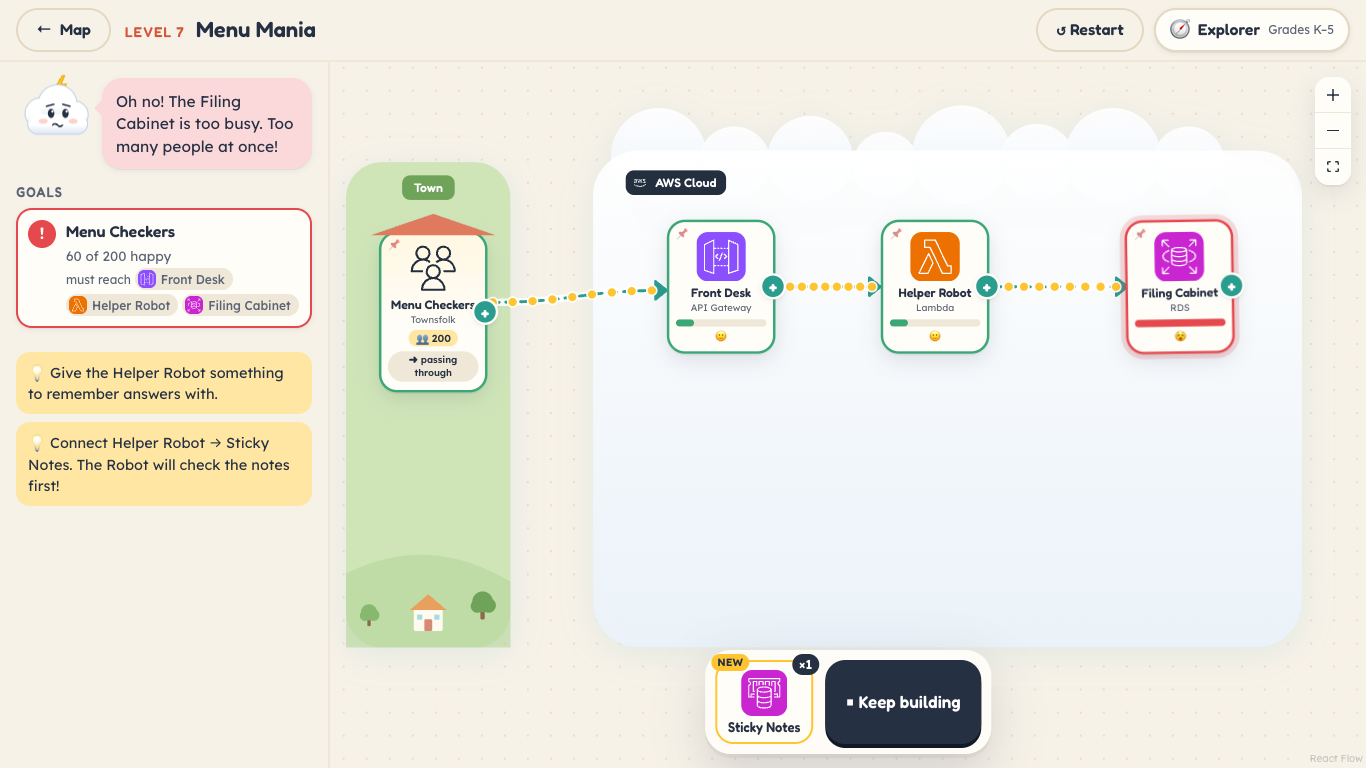
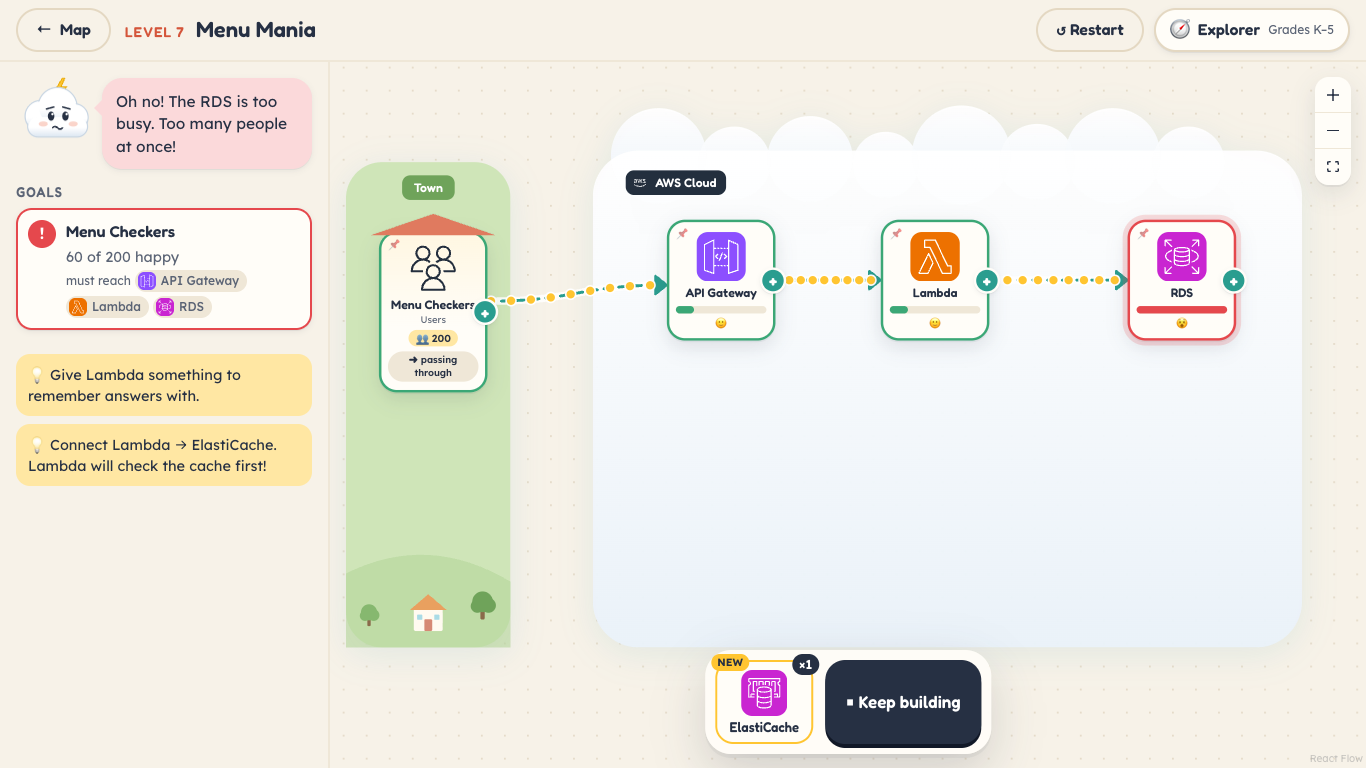
Refresh README screenshots for Chapter 2 and the Advanced Track
Retake the home and Chapter 1 map screenshots, which predated the
Advanced Track card and the chapter list. Add Chapter 2, Advanced Track
map, Advanced ticket, and Playground starter screenshots. Retake the
Explorer, level 8, and style guide shots that still showed the old
service nicknames.

Reorganise the README around what's inside (Story Mode, Advanced Track,
Playground, grade bands), then how to run and extend it.

diff --git a/README.md b/README.md
@@ -1,101 +1,125 @@
 # Spark: Cloud Builders
 
-A visual, game-like web app that teaches K–12 students how AWS services fit together.
+A visual, game-like web app that teaches students how AWS services fit together. Drag real AWS services onto a
+map, connect them, and press **Run** to watch requests flow. Overloaded pieces turn red, queued work waits in
+line, and bots get blocked.
 
-![Spark home screen: Story Mode and Playground over a cartoon town connected to the AWS cloud](docs/screens/home.png)
+![Spark home screen: Story Mode, Advanced Track, and Playground over a cartoon town connected to the AWS cloud](docs/screens/home.png)
 
-- **Story Mode**: 9 levels where Baker Rosa's bakery, Crumb & Co., goes online. Each level gives you a few
-  pieces. You connect them and press **Run** to watch requests flow along the arrows. Overloaded pieces
-  turn red; queued work waits in line; gremlin bots get blocked.
-  **Chapter 2: Maple Hollow Helps** opens after that: 6 levels where the whole town needs help with the kinds of
-  problems STLP teams pick (a library events site, park cleanup sign-ups, late-bus alerts, an AI school helper, notes
-  in every language, and a photo lost-and-found), using CloudFront, S3, API Gateway, Lambda, DynamoDB, SNS, Bedrock,
-  Translate, Polly, and Rekognition.
-- **Advanced Track (college & up)**: 7 on-call tickets two years later, when Crumb & Co. has grown into a national
-  delivery platform and you're its first cloud engineer. Tickets add constraints beyond "everyone is happy": a monthly
-  **budget**, **required arrows** (an IAM role, a KMS key, a Cognito authorizer, a CloudWatch alarm), and queues that
-  must **drain**. Topics: least privilege, cost-aware scaling, queue backlogs and containers, edge security, SNS/SQS
-  fan-out, an S3 + Athena data lake, and a grounded Bedrock AgentCore agent. Always uses real AWS names and numbers.
-- **Playground**: build anything with 48 pieces, from S3 and Lambda to IAM, containers, data tools, and Bedrock AgentCore. Only connections that make sense snap together. Try one
-  that doesn't, and Sparky explains why and suggests what to connect instead.
-- **Challenge tools** (in the Playground), for K–12 teams pitching an AWS solution to a community problem:
-  - **Starters**: pick your kind of problem (share information, collect sign-ups, send alerts, AI answers, understand
-    photos, more languages) and start from a plan that already works.
-  - **Your project's words and a goal**: rename any piece ("Sign-up checker"), with the AWS name kept underneath, and set a
-    goal like "80 volunteers can sign up". **Run** checks it.
-  - **Why we chose it**: a note on each piece, plus other services that could do the same job and when to pick each.
-  - **Our AWS plan**: a pitch-ready card with a picture of the map, what each service does, how it works, and the
-    sources to cite. Copy it as text or save it as a picture.
-  - **Judge practice**: questions a judge might ask, checked against your map: a 10× crowd, who can read your data,
-    how you'd know something broke, and why you picked each main service.
-  - **Share**: a link that carries the whole design, so teammates, coaches, and mentors can open it. No server or account.
-- **Grade bands**: Explorer (K–5), Builder (6–8), and Architect (9–12). Every band uses the real AWS service
-  names. Each band changes the explanations, numbers, and hints.
-- **Hover to learn**: point at any piece, tray item, or service chip to see what that service does, explained
-  for your grade band. Tap a piece on a touch screen to open its info card.
+## What's inside
 
-| Story Mode level map | A level running: one server is overloaded |
+### Story Mode (K–12)
+
+Two chapters, 15 levels. Each level gives you a few pieces and a goal. Connect them, press **Run**, and Sparky
+explains what happened.
+
+| Chapter 1: Crumb & Co. Goes Online | Chapter 2: Maple Hollow Helps |
 |---|---|
-| ![Chapter 1 level map with four levels complete](docs/screens/level-map.png) | ![Level 6: 150 visitors reach a server that can handle 50, so it turns red](docs/screens/level6-overload.png) |
-| **Sparky explains a connection that doesn't fit** | **Playground with IAM and KMS badges** |
-| ![Connecting customers straight to DynamoDB, and Sparky suggesting API Gateway instead](docs/screens/invalid-connection.png) | ![Playground: CloudFront, S3, API Gateway, Lambda, DynamoDB, and Bedrock, with IAM and KMS badge arrows](docs/screens/playground.png) |
+| ![Chapter 1 map: nine levels, four done](docs/screens/level-map.png) | ![Chapter 2 map: six levels, two done](docs/screens/chapter2-map.png) |
+| Baker Rosa's bakery goes online in 9 levels: storage, DNS, CDN, serverless, fan-out, scaling, caching, queues, and security. | The whole town needs help in 6 levels: a library events site, park cleanup sign-ups, late-bus alerts, an AI school helper, notes in every language, and a photo lost-and-found. |
+
+| A level running: one server is overloaded | Sparky explains a connection that doesn't fit |
+|---|---|
+| ![Level 6: 150 visitors reach a server that can handle 50, so it turns red](docs/screens/level6-overload.png) | ![Connecting customers straight to DynamoDB, and Sparky suggesting API Gateway instead](docs/screens/invalid-connection.png) |
+
+### Advanced Track (college & up)
+
+Seven on-call tickets, two years later. Crumb & Co. is now a national delivery platform and you're its first
+cloud engineer. Tickets add constraints beyond "everyone is happy": a monthly **budget**, **required arrows**
+(an IAM role, a KMS key, a Cognito authorizer, a CloudWatch alarm), and queues that must **drain**.
+
+| Advanced Track map | A ticket with a budget and security constraints |
+|---|---|
+| ![Advanced Track map: seven tickets across a night-time city](docs/screens/advanced-map.png) | ![Ticket 1: a $300 budget, a least-privilege IAM role, a customer managed KMS key, and a Cognito authorizer](docs/screens/advanced-ticket.png) |
+
+Topics: least privilege, cost-aware scaling, queue backlogs and containers, edge security, SNS/SQS fan-out, an
+S3 + Athena data lake, and a grounded Bedrock AgentCore agent. Every ticket uses real AWS names and numbers.
+
+### Playground
+
+Build anything with 48 pieces, from S3 and Lambda to IAM, containers, data tools, and Bedrock AgentCore. Only
+connections that make sense snap together. Try one that doesn't, and Sparky explains why and suggests what to
+connect instead.
+
+| Pick a starter plan | A finished design with a goal, IAM, and KMS |
+|---|---|
+| ![Starters: six kinds of problem, each with a plan that already works](docs/screens/starters.png) | ![Playground: CloudFront, S3, API Gateway, Lambda, DynamoDB, and Bedrock, with IAM and KMS badge arrows and a met goal](docs/screens/playground.png) |
+
+The Playground also has **challenge tools** for teams pitching an AWS solution to a community problem:
+
+- **Starters**: pick your kind of problem (share information, collect sign-ups, send alerts, AI answers,
+  understand photos, more languages) and start from a plan that already works.
+- **Your project's words and a goal**: rename any piece ("Sign-up checker") with the AWS name kept underneath,
+  and set a goal like "80 volunteers can sign up". **Run** checks it.
+- **Why we chose it**: a note on each piece, plus other services that could do the same job and when to pick each.
+- **Our AWS plan**: a pitch-ready card with a picture of the map, what each service does, and sources to cite.
+  Copy it as text or save it as a picture.
+- **Judge practice**: questions a judge might ask, checked against your map: a 10× crowd, who can read your
+  data, how you'd know something broke, and why you picked each main service.
+- **Share**: a link that carries the whole design. No server or account needed.
+
+### Grade bands
+
+Explorer (K–5), Builder (6–8), Architect (9–12), and Advanced (college & up). Every band uses the real AWS
+service names. The band changes the explanations, numbers, and hints. Point at any piece, tray item, or service
+chip to see what it does, explained for your band. On a touch screen, tap a piece to open its info card.
+
+![Explorer band: faces instead of numbers, and automatic hints](docs/screens/explorer-band.png)
 
 ## Run it
 
 ```bash
 npm install
 npm run dev        # http://localhost:5173
-npm test           # engine + data tests (every level is solvable, every preset is a valid connection)
-npm run build      # static site in dist/ — host on S3 + CloudFront, Amplify, GitHub Pages…
+npm test           # every level is solvable, every preset is a valid connection
+npm run build      # static site in dist/
 ```
 
-The app uses hash routing and a relative base, so `dist/` works from any static host or sub-path.
-Progress is saved in the browser (localStorage). Nothing is sent to a server.
+The build is a static site with hash routing and a relative base, so `dist/` works from S3 + CloudFront,
+Amplify, GitHub Pages, or any sub-path. Progress is saved in the browser. Nothing is sent to a server.
 
-## How it works
+## How it's built
 
 | Path | What lives there |
 |---|---|
-| `src/data/services.ts` | The 48 pieces: real name, per-band blurbs (shown on hover and in the info card), capacity, and how traffic leaves each one |
-| `src/data/rules.ts` | Directional allow-list of connections (`from → to`), with a verb plus simple and technical "why" text, and hand-written explanations for common mistakes |
-| `src/data/levels.ts` | Chapter 1 story, goals, pre-placed pieces, tray palette, hints, lesson, and the intended solution |
-| `src/data/advanced.ts` | Advanced Track tickets, with budgets, required arrows, and backlog limits |
-| `src/data/costs.ts` | Rough monthly cost of each piece, used by budget tickets |
-| `src/engine/objectives.ts` | Checks a ticket's budget, required arrows, and queue backlog |
-| `src/data/starters.ts`, `src/data/alternatives.ts` | Playground starter plans, and which services can do the same job (with "pick it when…") |
-| `src/engine/judge.ts`, `src/engine/share.ts` | Judge-practice questions checked against a map, and share-link encoding (validated on open) |
+| `src/data/services.ts` | The 48 pieces: name, per-band blurbs, capacity, and how traffic leaves each one |
+| `src/data/rules.ts` | Which connections are allowed (`from → to`), with a "why" for each, and explanations for common mistakes |
+| `src/data/levels.ts`, `src/data/chapter2.ts` | Story Mode chapters: story, goals, pre-placed pieces, tray, hints, lesson, and solution |
+| `src/data/advanced.ts`, `src/data/costs.ts` | Advanced Track tickets (budgets, required arrows, backlog limits) and rough monthly costs |
+| `src/data/starters.ts`, `src/data/alternatives.ts` | Playground starter plans, and which services can do the same job |
+| `src/engine/simulate.ts` | Traffic model: a forward pass computes load, a backward pass works out why each request did or didn't finish |
+| `src/engine/validate.ts`, `src/engine/objectives.ts` | Connection checks (rule, duplicate, self, loop) and ticket constraints (budget, required arrows, backlog) |
+| `src/engine/judge.ts`, `src/engine/share.ts` | Judge-practice questions and share-link encoding |
+| `src/components/canvas/` | React Flow canvas, pieces, flowing arrows, the tray, and the "why" bubble |
 | `src/components/playground/` | Starters, goal card, project notes, plan export, judge panel, share dialog |
-| `src/engine/simulate.ts` | Traffic model. A forward pass computes the load on every piece; a backward pass works out why each request did or didn't finish |
-| `src/engine/validate.ts` | Connection checks: rule, duplicate, self, and loop |
-| `src/components/canvas/` | React Flow canvas, pieces, flowing dashed edges with request dots, the tray (drag or tap), and the "why" bubble |
-| `src/screens/` | Home, Level map, Level play, Playground, Style guide (`#/styleguide`) |
+| `src/screens/` | Home, level map, level play, Playground, style guide (`#/styleguide`) |
 
-### Simulation rules (kid version)
+### Simulation rules
+
 - Townsfolk send *N* visitors. Every piece can handle a set number at once. Anything over that is dropped.
 - Front doors (Route 53, API Gateway, load balancer, WAF, SQS) **share** visitors between their arrows.
   Workers (Lambda, EC2, SNS, EventBridge…) **copy** each request to every arrow.
-- CloudFront answers ~80% from its copies. ElastiCache answers ~80% of database reads. Auto Scaling
+- CloudFront answers about 80% from its copies. ElastiCache answers about 80% of database reads. Auto Scaling
   gives EC2 4× capacity. WAF removes bots. Work coming out of SQS waits instead of being dropped.
-- **Badges**: IAM, KMS, Secrets Manager, Shield, Fargate, and Auto Scaling don't carry requests. Their arrows pin
-  a badge on the piece they point at (for example, IAM → Lambda gives Lambda a permission badge). Apart from Auto
-  Scaling's extra capacity, badges never make requests fail.
-- SQS hands messages to its readers in proportion to their capacity, because readers pull work when they have room.
+- **Badges**: IAM, KMS, Secrets Manager, Shield, Fargate, and Auto Scaling don't carry requests. Their arrows
+  pin a badge on the piece they point at. Apart from Auto Scaling's extra capacity, badges never make requests fail.
 - Pieces that need somewhere to send work (AgentCore, Firehose, Athena, Glue, AppSync) fail as a dead end without it.
 
 ### Add a level
-Append to `LEVELS` in `src/data/levels.ts`, including a `solution`. `npm test` fails if the starting
-setup already passes, if the solution doesn't, or if any arrow isn't an allowed connection.
 
-Advanced tickets go in `ADVANCED_LEVELS` in `src/data/advanced.ts` and can also set `budget`, `requires`, and
-`maxBacklog`. The same test checks that the start fails and the solution passes every constraint.
+Append to the chapter's level list (`src/data/levels.ts`, `src/data/chapter2.ts`, or `src/data/advanced.ts`),
+including a `solution`. Advanced tickets can also set `budget`, `requires`, and `maxBacklog`. `npm test` fails if
+the starting setup already passes, if the solution doesn't, or if any arrow isn't an allowed connection.
 
 ### Add a service
+
 1. Add its icon mapping to `scripts/import-icons.mjs`, then run
    `npm run icons -- "/path/to/Icon-package_XXXX"` to copy it into `public/icons/`.
 2. Add the service to `src/data/services.ts` and its connections to `src/data/rules.ts`.
 
 ## Notes
-- AWS Architecture Icons © Amazon Web Services, used here to teach architecture.
-  This project is not affiliated with or endorsed by AWS.
-- Fonts (Fredoka, Lexend) are bundled via Fontsource, so the app works on school networks that block Google Fonts.
+
+- AWS Architecture Icons © Amazon Web Services, used here to teach architecture. This project is not
+  affiliated with or endorsed by AWS.
+- Fonts (Fredoka, Lexend) are bundled, so the app works on school networks that block Google Fonts.
 - Teacher mode (on the level map) unlocks every level.
